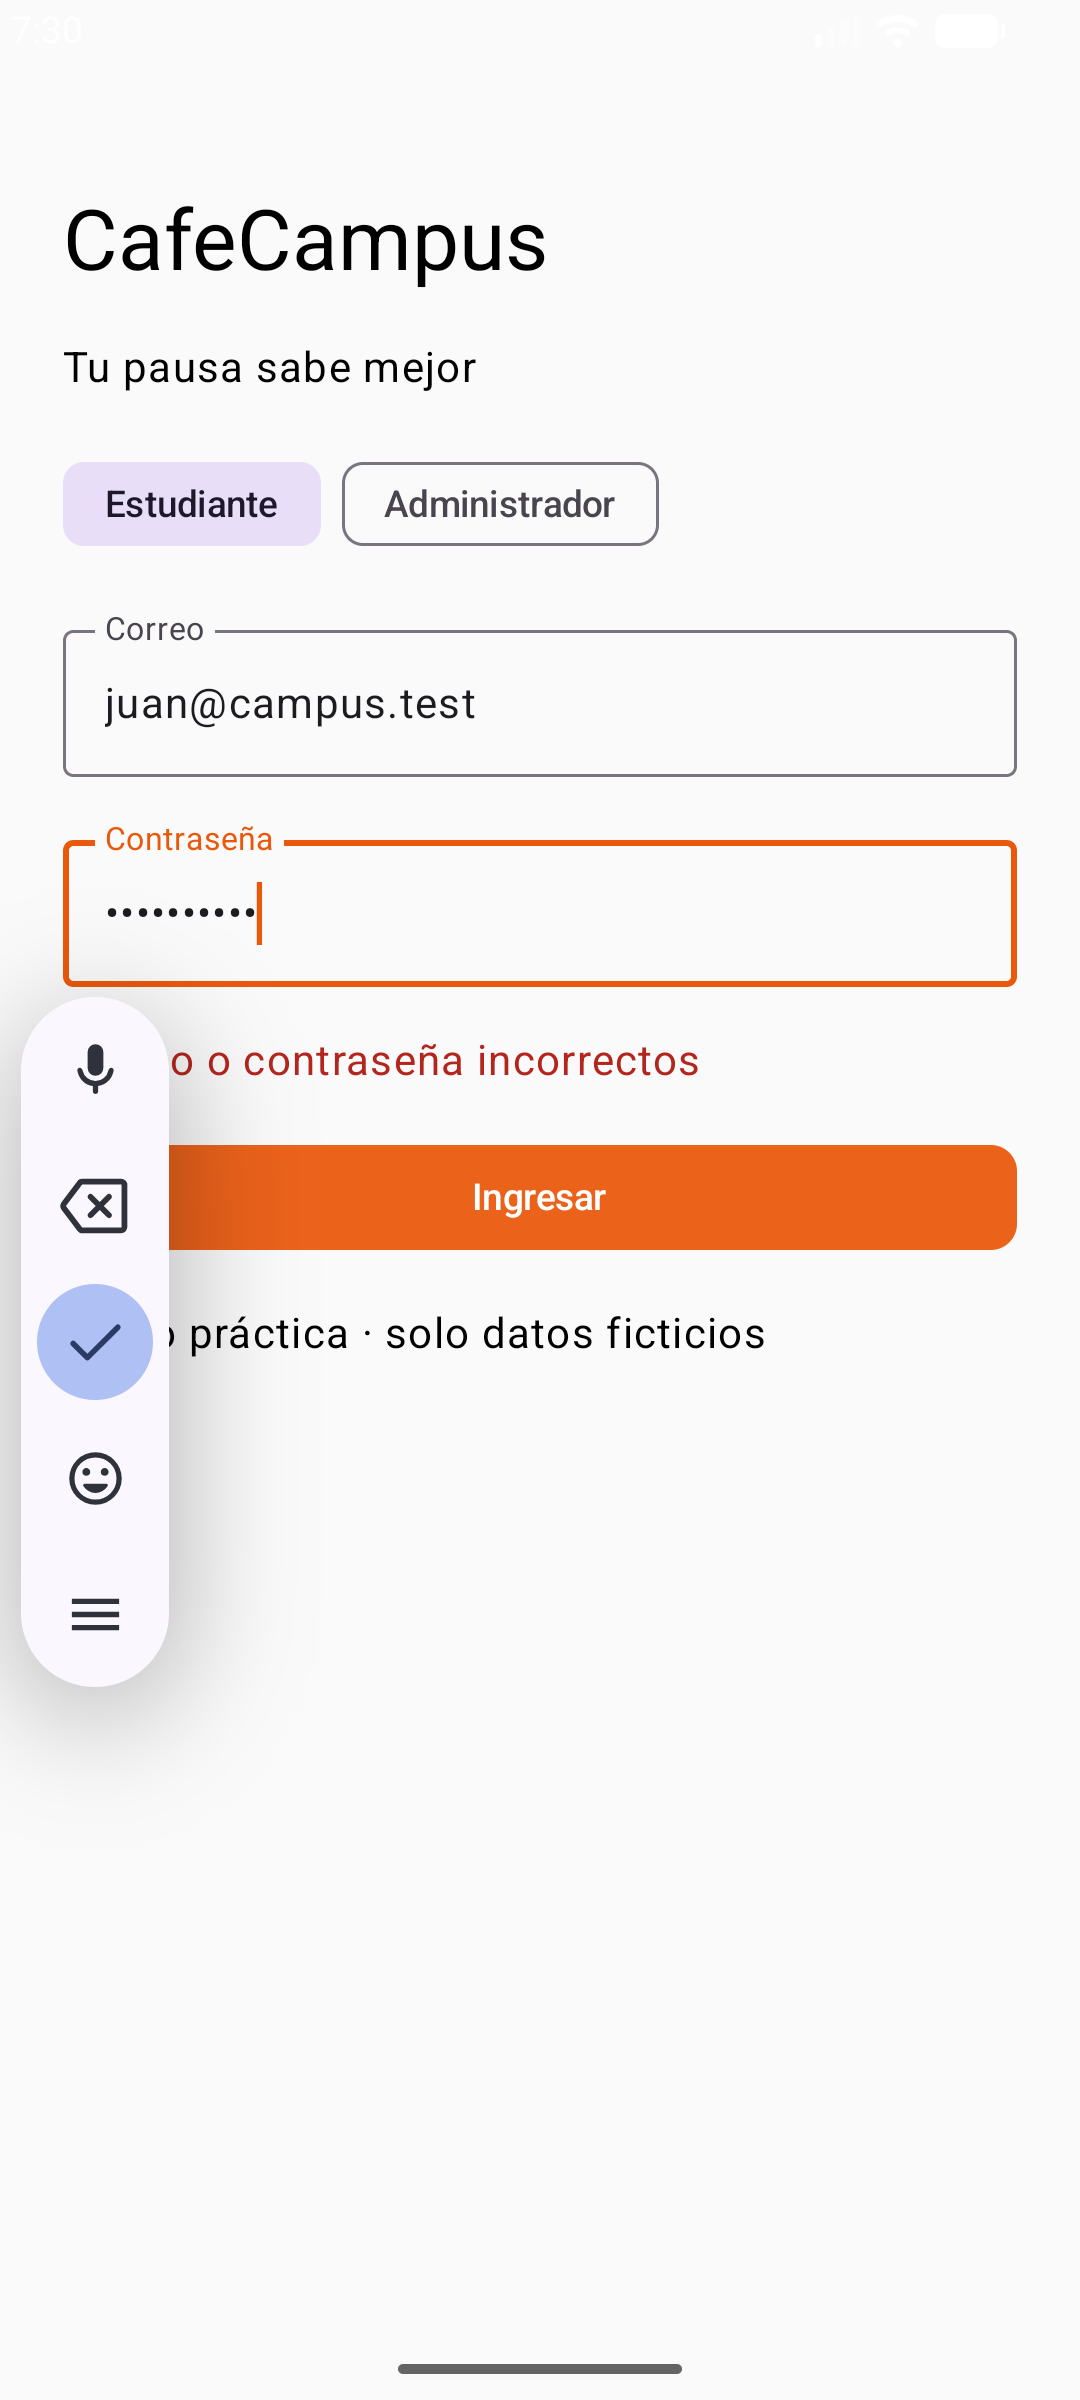
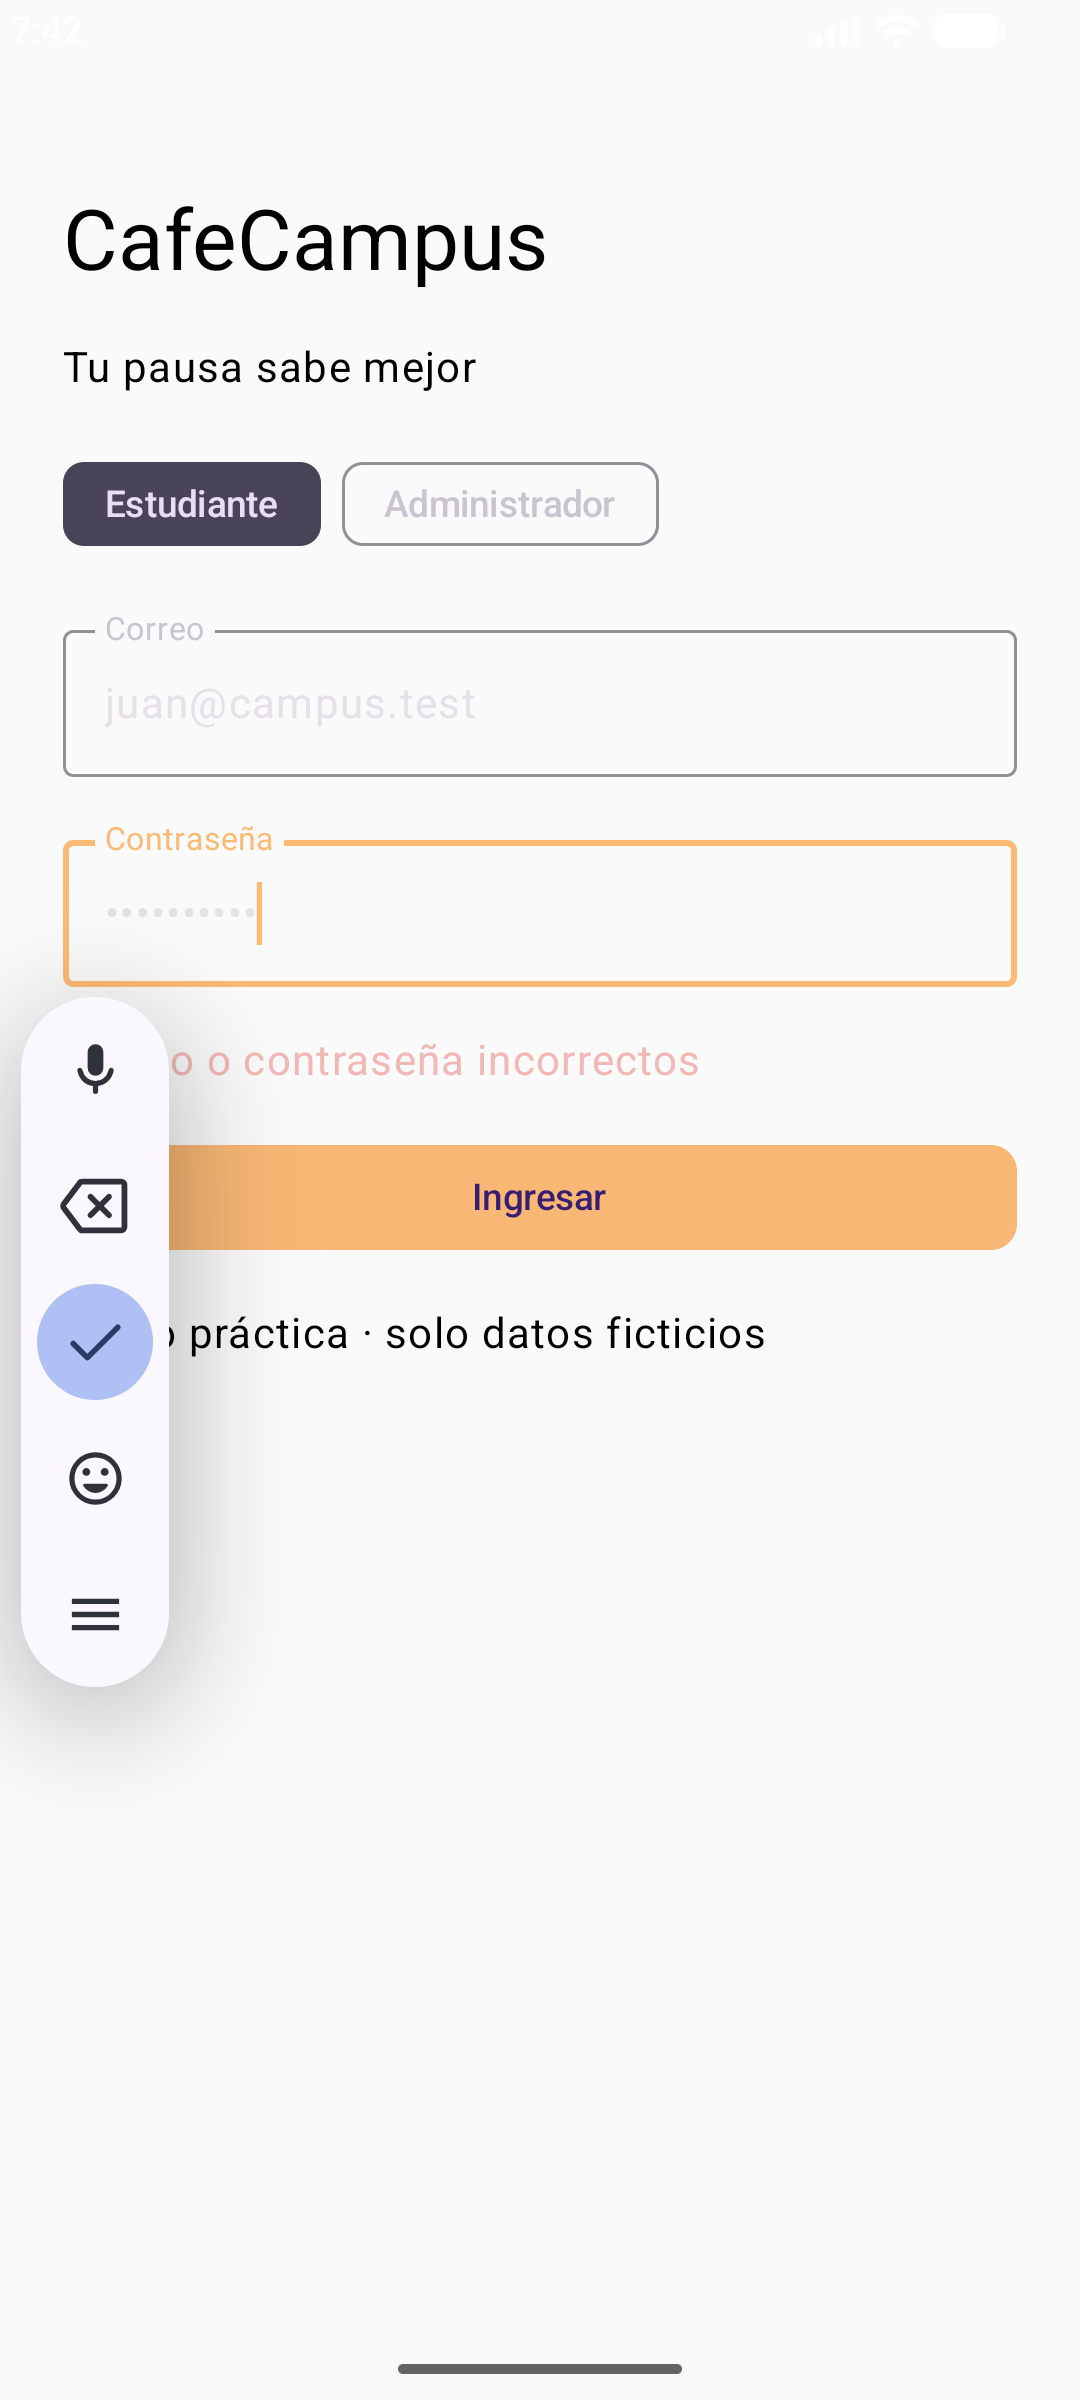
fix: completa selector de estados y pruebas de mejoras por UI

diff --git a/SEMANA8/CafeCampus/app/src/androidTest/java/com/tecsup/cafecampus/FlujoUiTest.kt b/SEMANA8/CafeCampus/app/src/androidTest/java/com/tecsup/cafecampus/FlujoUiTest.kt
@@ -20,6 +20,8 @@ class FlujoUiTest {
   rule.onNodeWithText("Ingresar").performClick();esperar("Correo o contraseña incorrectos");captura("login-error")
   rule.onAllNodes(hasSetTextAction())[1].performTextClearance();rule.onAllNodes(hasSetTextAction())[1].performTextInput("1234")
   rule.onNodeWithText("Ingresar").performClick();esperar("Menú del campus");captura("cliente-menu")
+  rule.onNodeWithText("Buscar productos").performTextInput("CAFE");rule.waitUntil(5000) {rule.onAllNodesWithText("Chicha morada").fetchSemanticsNodes().isEmpty()};rule.onNodeWithText("Café americano").assertExists();captura("cliente-busqueda")
+  rule.onNodeWithText("Buscar productos").performTextClearance()
   rule.onNodeWithText("Café americano").performScrollTo().performClick();esperar("Nota para este producto");captura("cliente-detalle")
   rule.onNodeWithText("Agregar al pedido",substring=true).performClick()
   esperar("Menú del campus");rule.onNodeWithText("Chicha morada").performScrollTo().performClick();rule.onNodeWithText("Agregar al pedido",substring=true).performClick()
@@ -30,7 +32,7 @@ class FlujoUiTest {
   esperar("Panel de cafetería");captura("admin-panel")
   rule.onAllNodesWithText("Preparar pedido",substring=true)[0].performScrollTo().performClick()
   rule.onNodeWithText("Pedidos",useUnmergedTree=false).performClick();esperar("Gestión de pedidos")
-  rule.onNodeWithText("PREPARANDO").performClick();captura("admin-pedidos")
+  rule.onNode(hasText("PREPARANDO") and SemanticsMatcher.keyIsDefined(androidx.compose.ui.semantics.SemanticsProperties.Selected)).performClick();captura("admin-pedidos")
   rule.onNodeWithText("Menú").performClick();esperar("Gestión del menú");captura("admin-menu")
   rule.onNodeWithText("Ajustes").performClick();esperar("Ajustes y perfil");captura("admin-ajustes")
   if(rule.onAllNodes(isToggleable())[0].fetchSemanticsNode().config[androidx.compose.ui.semantics.SemanticsProperties.ToggleableState]!=androidx.compose.ui.state.ToggleableState.On) rule.onAllNodes(isToggleable())[0].performClick()
@@ -45,6 +47,15 @@ class FlujoUiTest {
   rule.onNodeWithText("Cambiar de perfil · modo práctica").performClick();esperar("Menú del campus")
   rule.onNodeWithText("Pedidos").performClick();esperar("Mis pedidos");rule.onAllNodesWithText("PREPARANDO")[0].assertExists();captura("cliente-pedido-preparando")
   rule.activityRule.scenario.recreate();esperar("Mis pedidos");rule.onAllNodesWithText("PREPARANDO")[0].assertExists()
+  rule.onNodeWithText("Perfil").performClick();esperar("Ajustes y perfil");rule.onNodeWithText("Cambiar de perfil · modo práctica").performClick();esperar("Panel de cafetería")
+  rule.onNodeWithText("Pedidos").performClick();esperar("Gestión de pedidos");rule.onNode(hasText("PREPARANDO") and SemanticsMatcher.keyIsDefined(androidx.compose.ui.semantics.SemanticsProperties.Selected)).performClick()
+  rule.waitUntil(5000) {rule.onAllNodesWithText("Pedido #",substring=true).fetchSemanticsNodes().isNotEmpty()}
+  rule.onAllNodesWithText("Pedido #",substring=true)[0].performClick();esperar("Pasar a LISTO");rule.onNodeWithText("Pasar a LISTO").performClick()
+  esperar("Pasar a ENTREGADO");rule.onNodeWithText("Pasar a ENTREGADO").performClick();esperar("ENTREGADO");captura("admin-entregado")
+  rule.onNodeWithText("Ajustes").performClick();esperar("Ajustes y perfil");rule.onNodeWithText("Cambiar de perfil · modo práctica").performClick();esperar("Menú del campus")
+  rule.onNodeWithText("Pedidos").performClick();esperar("Mis pedidos");rule.onNodeWithText("Historial").performClick()
+  rule.waitUntil(5000) {rule.onAllNodesWithText("Repetir pedido #",substring=true).fetchSemanticsNodes().isNotEmpty()}
+  rule.onAllNodesWithText("Repetir pedido #",substring=true)[0].performClick();esperar("Confirmar pedido");rule.onNodeWithText("Subtotal / Total: S/ 7.50").assertExists();captura("cliente-repetir")
  }
 }
 

diff --git a/SEMANA8/CafeCampus/app/src/main/java/com/tecsup/cafecampus/ui/admin/DetallePedidoAdminScreen.kt b/SEMANA8/CafeCampus/app/src/main/java/com/tecsup/cafecampus/ui/admin/DetallePedidoAdminScreen.kt
@@ -1,5 +1,7 @@
 package com.tecsup.cafecampus.ui.admin
 import androidx.compose.foundation.layout.*
+import androidx.compose.foundation.lazy.LazyRow
+import androidx.compose.foundation.lazy.items
 import androidx.compose.material3.*
 import androidx.compose.runtime.*
 import androidx.compose.ui.Modifier
@@ -9,10 +11,13 @@ import com.tecsup.cafecampus.model.EstadoPedido
 import com.tecsup.cafecampus.ui.components.*
 @Composable fun DetallePedidoAdminScreen(vm:PedidosAdminViewModel,id:Int,onVolver:()->Unit) {
  val flujo=remember(vm,id) {vm.pedido(id)};val p by flujo.collectAsState()
+ val error by vm.error.collectAsState()
  Column(Modifier.padding(16.dp),verticalArrangement=Arrangement.spacedBy(12.dp)) {
   TextButton(onClick=onVolver) {Text("Volver")}
   p?.let {p->Text("Pedido #$id",style=MaterialTheme.typography.headlineMedium);PedidoCard(p) {};p.detalles.forEach {Text("${it.cantidad} × ${it.nombreProducto} · S/ %.2f".format(it.precioUnitario*it.cantidad))}; if(p.pedido.nota.isNotBlank()) Card {Text("Nota: ${p.pedido.nota}",Modifier.padding(16.dp))}
    val estado=EstadoPedido.valueOf(p.pedido.estado)
+   LazyRow(horizontalArrangement=Arrangement.spacedBy(6.dp)) {items(EstadoPedido.entries) {e->FilterChip(selected=e==estado,onClick={vm.seleccionar(p,e)},label={Text(e.name)})}}
+   error?.let {Text(it,color=MaterialTheme.colorScheme.error)}
    StepperEstado(estado.name)
    if(estado.activo) {CafeButton("Pasar a ${estado.siguiente()}") {vm.avanzar(p)};TextButton(onClick={vm.cancelar(p)}) {Text("Cancelar pedido")}}
   }?:Text("Cargando…")

diff --git a/SEMANA8/CafeCampus/app/src/main/java/com/tecsup/cafecampus/ui/cliente/LoginScreen.kt b/SEMANA8/CafeCampus/app/src/main/java/com/tecsup/cafecampus/ui/cliente/LoginScreen.kt
@@ -8,9 +8,12 @@ import androidx.compose.ui.unit.dp
 import com.tecsup.cafecampus.viewmodel.SesionViewModel
 import com.tecsup.cafecampus.model.Rol
 import com.tecsup.cafecampus.ui.components.*
+import com.tecsup.cafecampus.ui.theme.CafeTheme
 @Composable fun LoginScreen(vm:SesionViewModel) {
  var rol by rememberSaveable { mutableStateOf("CLIENTE") }; var correo by rememberSaveable { mutableStateOf("") }; var clave by rememberSaveable { mutableStateOf("") }
  val error by vm.error.collectAsState()
+ val oscuro by vm.modoOscuro.collectAsState()
+ CafeTheme(Rol.valueOf(rol),oscuro) {
  Column(Modifier.fillMaxSize().padding(24.dp),verticalArrangement=Arrangement.spacedBy(16.dp)) {
   Spacer(Modifier.height(32.dp)); Text("CafeCampus",style=MaterialTheme.typography.headlineLarge); Text("Tu pausa sabe mejor")
   Row { Rol.entries.forEach { FilterChip(selected=rol==it.name,onClick={rol=it.name},label={Text(if(it==Rol.CLIENTE) "Estudiante" else "Administrador")}); Spacer(Modifier.width(8.dp)) } }
@@ -18,6 +21,7 @@ import com.tecsup.cafecampus.ui.components.*
   error?.let { Text(it,color=MaterialTheme.colorScheme.error) }
   CafeButton("Ingresar") { vm.login(correo,clave,Rol.valueOf(rol)) }
   Text("Modo práctica · solo datos ficticios")
+ }
  }
 }
 

diff --git a/SEMANA8/CafeCampus/app/src/main/java/com/tecsup/cafecampus/viewmodel/PedidosAdminViewModel.kt b/SEMANA8/CafeCampus/app/src/main/java/com/tecsup/cafecampus/viewmodel/PedidosAdminViewModel.kt
@@ -12,5 +12,13 @@ class PedidosAdminViewModel(private val repo:CafeRepository):ViewModel() {
  fun pedido(id:Int)=repo.observarPedido(id).stateIn(viewModelScope,SharingStarted.WhileSubscribed(5000),null)
  fun avanzar(p:PedidoConDetalle) { EstadoPedido.valueOf(p.pedido.estado).siguiente()?.let { e->viewModelScope.launch {repo.cambiarEstado(p.pedido.id,e)} } }
  fun cancelar(p:PedidoConDetalle) { if(EstadoPedido.valueOf(p.pedido.estado).activo) viewModelScope.launch {repo.cambiarEstado(p.pedido.id,EstadoPedido.CANCELADO)} }
+ val error=MutableStateFlow<String?>(null)
+ fun seleccionar(p:PedidoConDetalle,e:EstadoPedido) {
+  val actual=EstadoPedido.valueOf(p.pedido.estado)
+  if(e==actual) return
+  if(e==actual.siguiente()) {error.value=null;avanzar(p)}
+  else if(e==EstadoPedido.CANCELADO&&actual.activo) {error.value=null;cancelar(p)}
+  else error.value="Avanza en orden: Recibido → Preparando → Listo → Entregado"
+ }
 }
 
